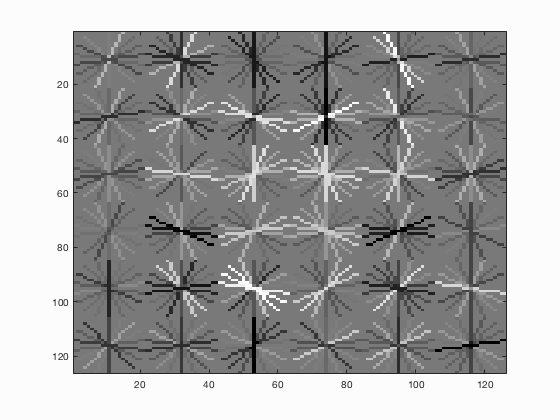
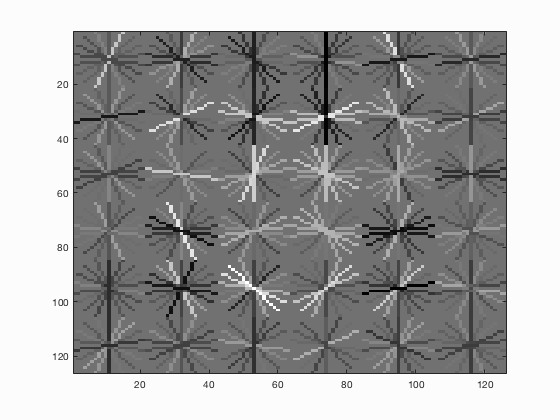
precision 0.83

diff --git a/A5/run_detector.m b/A5/run_detector.m
@@ -45,7 +45,11 @@ test_scenes = dir( fullfile( test_scn_path, '*.jpg' ));
 bboxes = zeros(0,4);
 confidences = zeros(0,1);
 image_ids = cell(0,1);
-
+hog_cell_size = feature_params.hog_cell_size;
+template_size = feature_params.template_size;
+SCALE = 0.1:0.1:1.1;
+thresh = 0.77; 
+%disp('Here0');
 for i = 1:length(test_scenes)
       
     fprintf('Detecting faces in %s\n', test_scenes(i).name)
@@ -54,13 +58,65 @@ for i = 1:length(test_scenes)
     if(size(img,3) > 1)
         img = rgb2gray(img);
     end
-    HOG = vl_hog(img, feature_params.hog_cell_size);
-    score = HOG*reshape(HOG,) + b; 
     
-    [is_maximum] = non_max_supr_bbox(cur_bboxes, cur_confidences, size(img));
-    bboxes      = [bboxes;      cur_bboxes];
-    confidences = [confidences; cur_confidences];
-    image_ids   = [image_ids;   test_scenes(i).name];
+    cur_image_ids = cell(0,1);
+    cur_bboxes = [];
+    cur_confidences = [];
+    for scale = SCALE
+        resizedImg = imresize(img,scale);
+        if min(size(resizedImg)) >= template_size
+            HOG = vl_hog(resizedImg, hog_cell_size);
+
+            window_r = size(HOG,1) - fix(template_size/hog_cell_size) + 1;
+            window_c = size(HOG,2) - fix(template_size/hog_cell_size) + 1;
+            tempFeature = zeros(window_r*window_c,(template_size/...
+                                        hog_cell_size) ^ 2 * 31);
+            tempIndex = zeros(window_r*window_c,4);
+            tempCount = 1;
+            for j = 1:window_c
+                for k = 1:window_r
+                    thisFeature = HOG(k : k + template_size/hog_cell_size...
+                        - 1, j : (j + template_size/hog_cell_size - 1), :);
+                    tempFeature(tempCount,:) = reshape(thisFeature, 1, ...
+                        fix(template_size/hog_cell_size) ^ 2 * 31);
+                    x_min = (j-1)*hog_cell_size + 1;
+                    y_min = (k-1)*hog_cell_size + 1;
+                    x_max = (j + template_size/hog_cell_size - 1) * hog_cell_size;
+                    y_max = (k + template_size/hog_cell_size - 1) * hog_cell_size;
+                    tempIndex(tempCount,:) = [x_min, y_min, x_max, y_max]./ scale;
+                    tempCount = tempCount + 1;
+                end
+            end
+            
+            thisScore = tempFeature * w + b;
+            index = find(thisScore >= thresh);
+            if ~isempty(index)
+                cur_bboxes = [cur_bboxes;tempIndex(index,:)];
+                cur_confidences = [cur_confidences; thisScore(index)]; 
+                %confidences in the range [-2 2]
+                ids = cell(max(size(index)),1);
+                ids(:) = {test_scenes(i).name};
+                cur_image_ids = [cur_image_ids; ids];
+            end
+        end
+    end
+    %non_max_supr_bbox can actually get somewhat slow with thousands of
+    %initial detections. You could pre-filter the detections by confidence,
+    %e.g. a detection with confidence -1.1 will probably never be
+    %meaningful. You probably _don't_ want to threshold at 0.0, though. You
+    %can get higher recall with a lower threshold. You don't need to modify
+    %anything in non_max_supr_bbox, but you can.
+    if ~isempty(cur_bboxes)
+        [is_maximum] = non_max_supr_bbox(cur_bboxes, cur_confidences, size(img));
+
+        cur_confidences = cur_confidences(is_maximum,:);
+        cur_bboxes      = cur_bboxes(is_maximum,:);
+        cur_image_ids   = cur_image_ids(is_maximum,:);
+
+        bboxes      = [bboxes;      cur_bboxes];
+        confidences = [confidences; cur_confidences];
+        image_ids   = [image_ids;   cur_image_ids];
+    end
 end
 
 

diff --git a/A5/get_positive_features.m b/A5/get_positive_features.m
@@ -30,11 +30,12 @@ function features_pos = get_positive_features(train_path_pos, feature_params)
 
 image_files = dir( fullfile( train_path_pos, '*.jpg') ); %Caltech Faces stored as .jpg
 num_images = length(image_files);
-features_pos = zeros(num_images,(feature_params.template_size / ...
+features_pos = zeros(num_images,fix(feature_params.template_size / ...
     feature_params.hog_cell_size)^2 * 31);
+
 for i=1:num_images
     IM = im2single(imread([train_path_pos '/' image_files(i).name]));
     HOG = vl_hog(IM, feature_params.hog_cell_size);
-    features_pos(i,:)= reshape(HOG,1,(feature_params.template_size / ...
+    features_pos(i,:)= reshape(HOG,1,fix(feature_params.template_size /...
         feature_params.hog_cell_size)^2 * 31);
 end

diff --git a/A5/get_random_negative_features.m b/A5/get_random_negative_features.m
@@ -35,7 +35,7 @@ function features_neg = get_random_negative_features(non_face_scn_path, feature_
 image_files = dir( fullfile( non_face_scn_path, '*.jpg' ));
 num_images = length(image_files);
 cropPerImage = ceil(num_samples/num_images);
-features_neg = zeros(cropPerImage*num_images,(...
+features_neg = zeros(cropPerImage*num_images,fix(...
     feature_params.template_size / feature_params.hog_cell_size)^2 * 31);
 features_neg_index = 1;
 for i=1:num_images

diff --git a/A5/proj4.m b/A5/proj4.m
@@ -77,8 +77,7 @@ lambda = 0.0001;
 X = [features_pos;features_neg]';
 y = [ones(size(features_pos,1),1); -1*ones(size(features_neg,1),1)];
 [w b] = vl_svmtrain(X, y, lambda);
-%disp(size(w));
-disp(b);
+
 
 %% step 3. Examine learned classifier
 % You don't need to modify anything in this section. The section first
